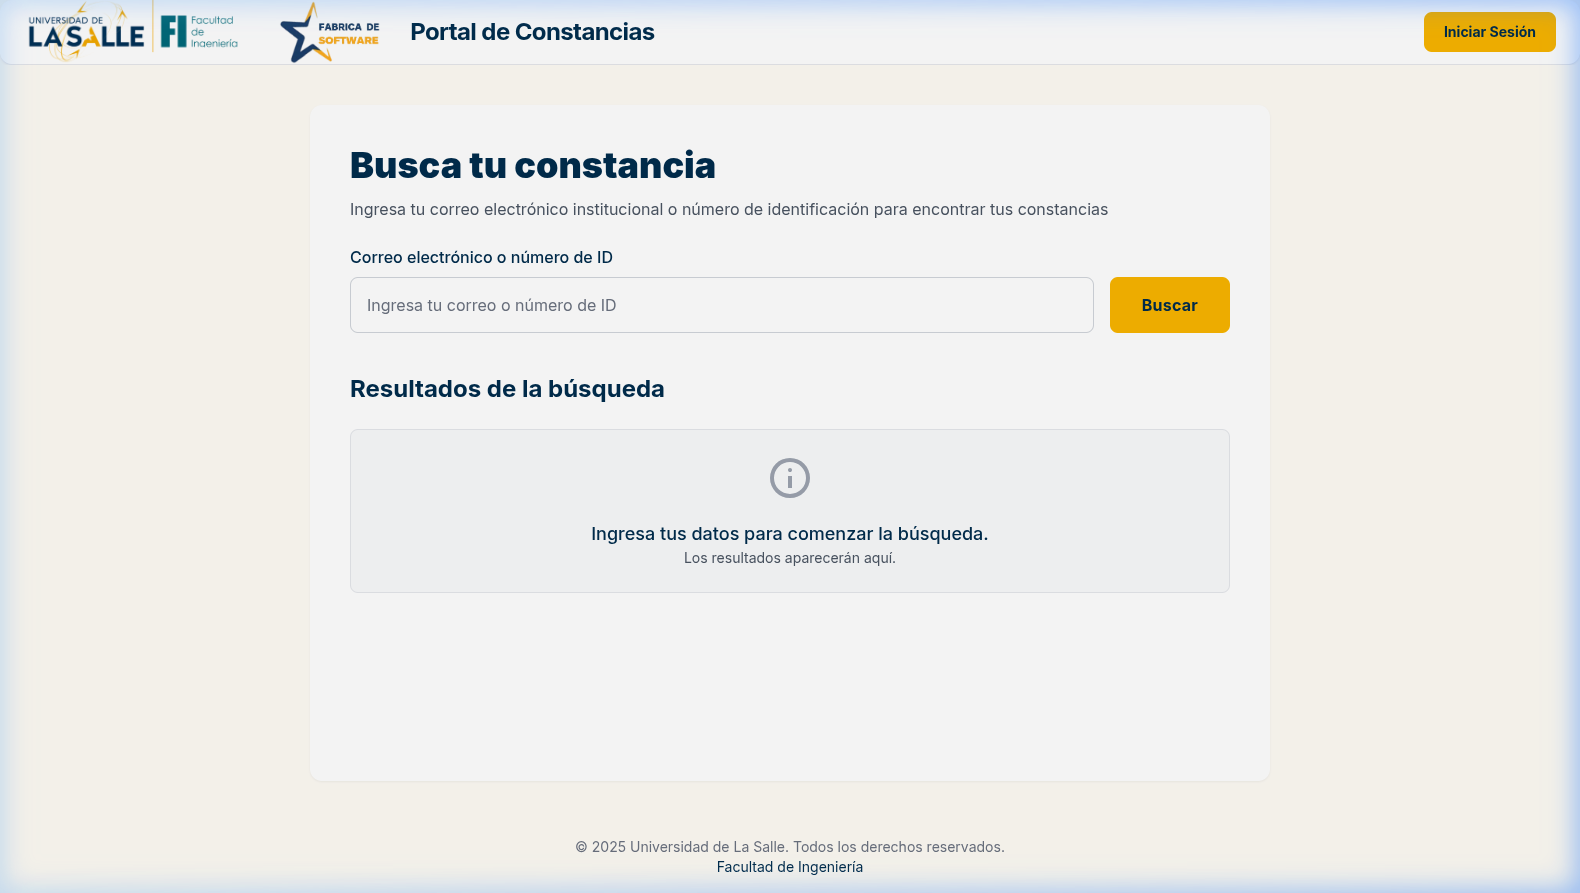
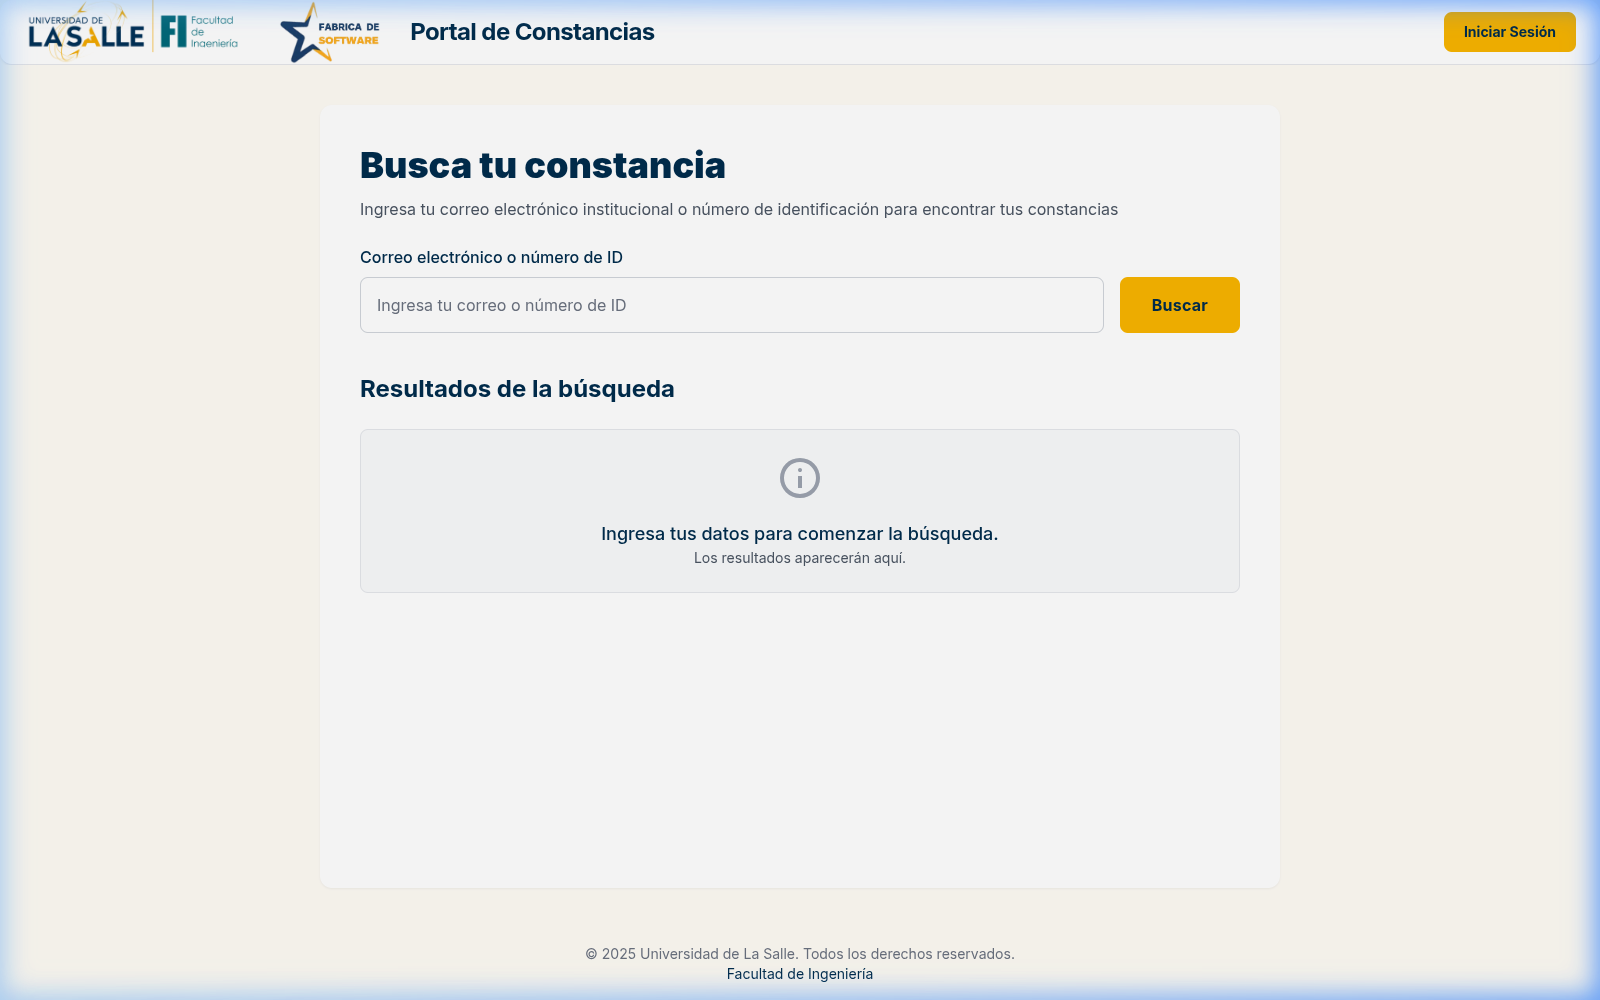
style: update certification image to crop edge artifacts and improve styling

diff --git a/css/styles.css b/css/styles.css
@@ -533,7 +533,7 @@ section {
   transform: scale(1.02);
 }
 
-/* Image fills the media box — screenshot was captured at 16:10, so cover has no visible crop */
+/* Image fills the media box — zoomed slightly to crop any edge artifacts */
 .project-img {
   position: absolute;
   inset: 0;
@@ -542,6 +542,9 @@ section {
   object-fit: cover;
   object-position: top center;
   display: block;
+  transform: scale(1.06);
+  transform-origin: top center;
+  border-radius: var(--radius);
 }
 
 /* When .project-row is an <a> tag, reset link appearance */
